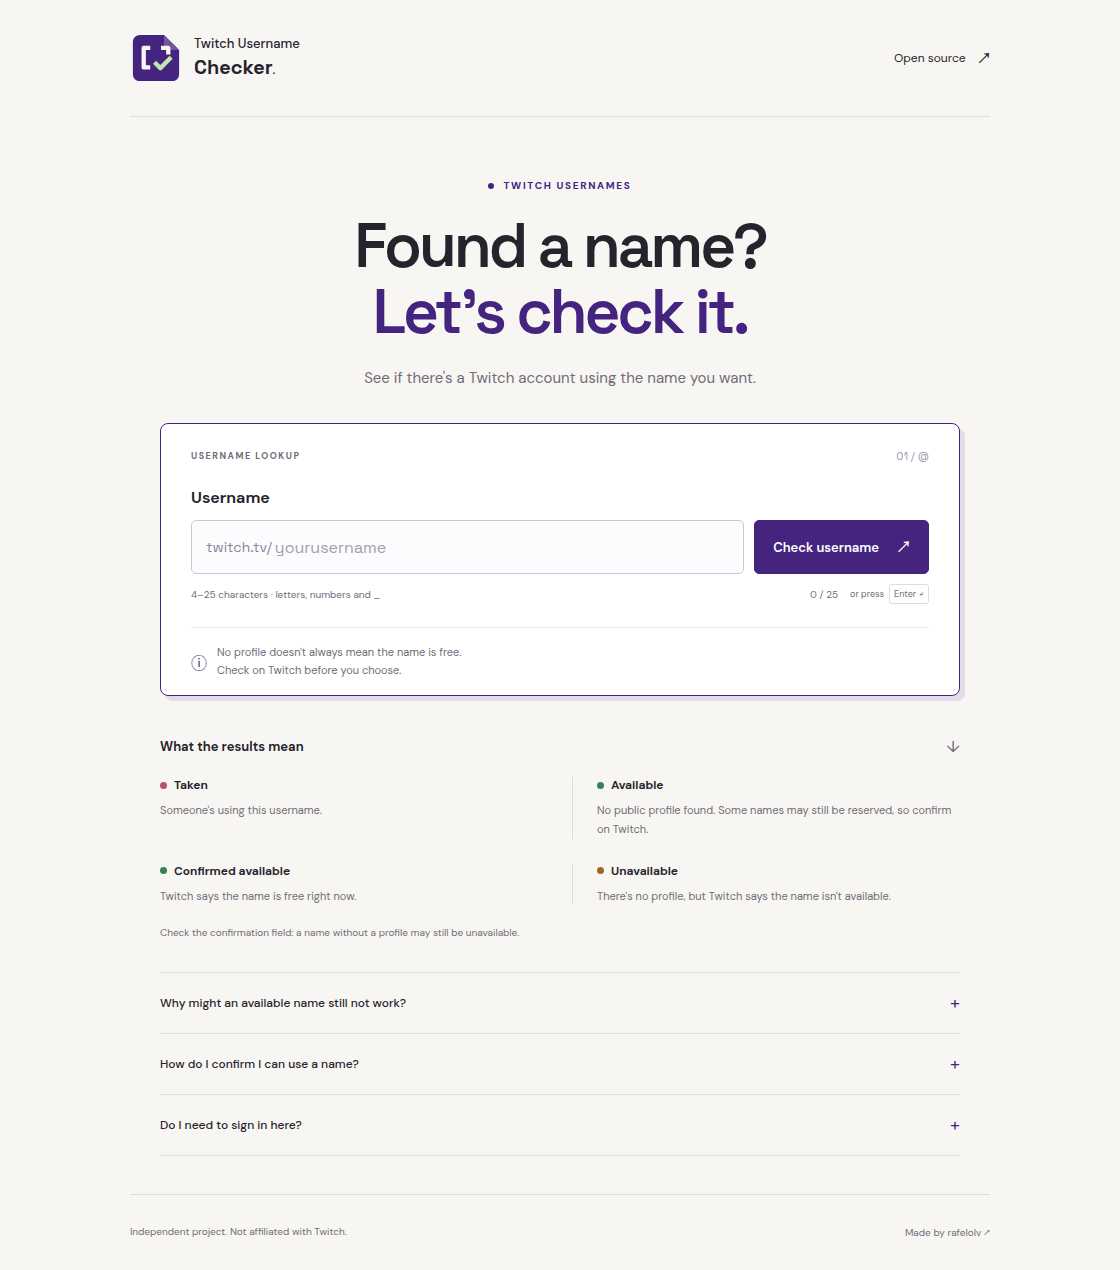
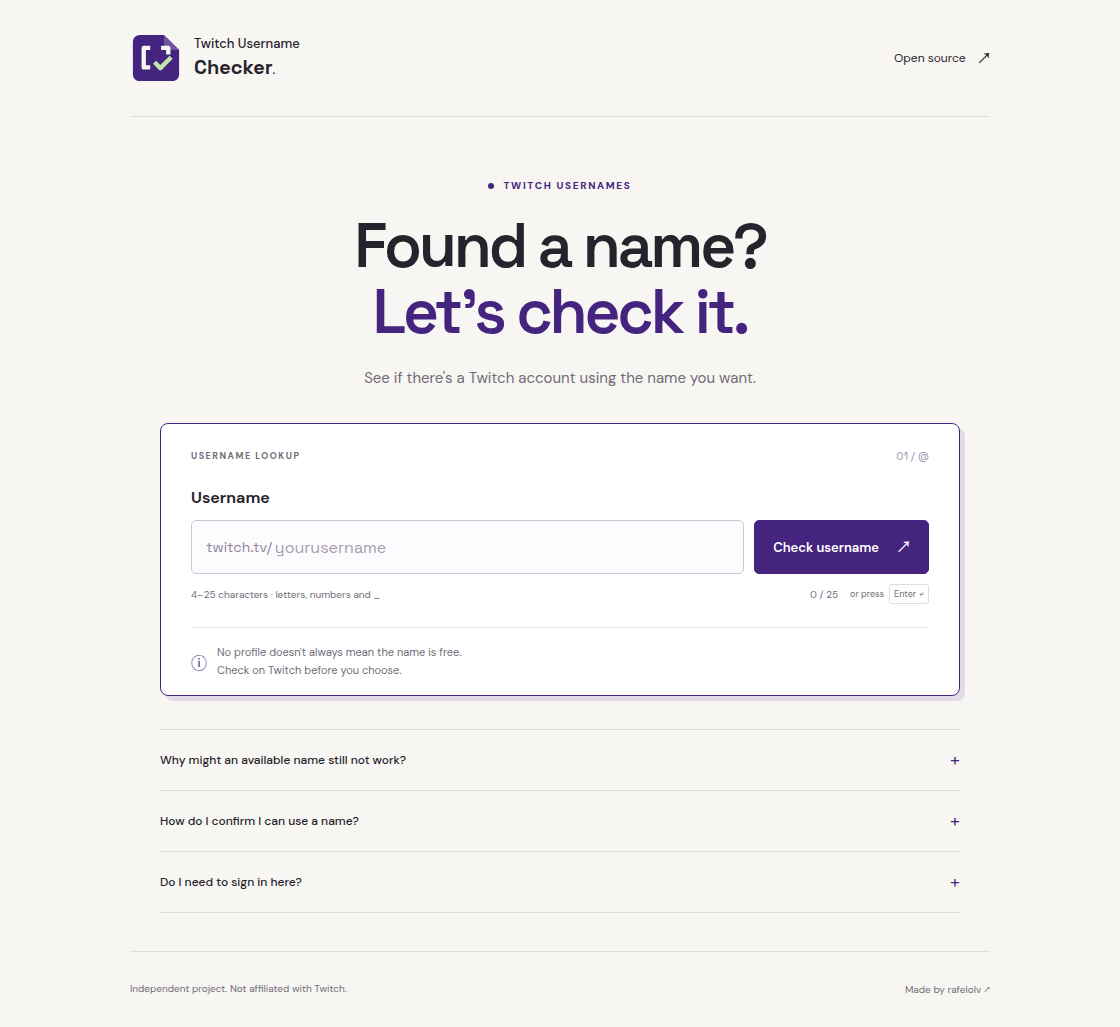
style: simplify results and remove status guide

diff --git a/styles.css b/styles.css
@@ -8,9 +8,7 @@
   --purple: #452480;
   --purple-light: #eee8f5;
   --line: #dedbe2;
-  --green: #348155;
   --red: #bb5264;
-  --amber: #9a6a24;
   font-family: "DM Sans", sans-serif;
   color: var(--ink);
   background: var(--paper);
@@ -311,31 +309,9 @@ kbd {
 }
 .result {
   margin-top: 22px;
-  padding: 20px;
-  background: #f4f0f8;
-  border-radius: 5px;
-  border-left: 3px solid var(--purple);
+  padding: 22px 0 0;
+  border-top: 1px solid var(--line);
   overflow-wrap: anywhere;
-}
-.result[data-state="taken"] {
-  background: #fcf0f2;
-  border-color: var(--red);
-}
-.result[data-state="available"],
-.result[data-state="unknown"] {
-  background: #edf6ed;
-  border-color: var(--green);
-}
-.result[data-state="unavailable"] {
-  background: #fbf3e7;
-  border-color: var(--amber);
-}
-.dot.unknown {
-  background: var(--green);
-}
-.result[data-state="available"] .result-heading,
-.result[data-state="unknown"] .result-heading {
-  color: var(--green);
 }
 .result-heading {
   display: flex;
@@ -343,8 +319,7 @@ kbd {
   gap: 8px;
   font-size: 11px;
   font-weight: 700;
-  text-transform: uppercase;
-  letter-spacing: 0.6px;
+  color: var(--ink);
 }
 .result h3 {
   font:
@@ -369,8 +344,8 @@ kbd {
 .result .result-caveat {
   margin-top: 12px;
   padding-top: 12px;
-  border-top: 1px solid #9a6a2440;
-  color: #79511b;
+  border-top: 1px solid var(--line);
+  color: var(--muted);
   font-size: 12px;
 }
 .result-facts:empty {
@@ -424,73 +399,6 @@ kbd {
   to {
     transform: rotate(360deg);
   }
-}
-.section-heading {
-  display: flex;
-  justify-content: space-between;
-  align-items: center;
-  gap: 15px;
-}
-.section-heading h2 {
-  font-size: 13px;
-  font-weight: 650;
-  margin: 0;
-}
-.explainer {
-  padding: 40px 30px 0;
-}
-.explainer > .section-heading {
-  padding-bottom: 20px;
-}
-.explainer > .section-heading > span {
-  color: var(--muted);
-}
-.status-guide {
-  display: grid;
-  grid-template-columns: repeat(2, minmax(0, 1fr));
-  gap: 24px;
-}
-.status-guide article:nth-child(even) {
-  border-left: 1px solid var(--line);
-  padding-left: 24px;
-}
-.status-name {
-  display: flex;
-  gap: 7px;
-  align-items: center;
-  font-size: 12px;
-  font-weight: 650;
-}
-.dot {
-  display: inline-block;
-  flex-shrink: 0;
-  width: 7px;
-  height: 7px;
-  border-radius: 50%;
-  background: var(--purple);
-}
-.dot.available {
-  background: var(--green);
-}
-.dot.taken {
-  background: var(--red);
-}
-.dot.unavailable {
-  background: var(--amber);
-}
-.status-guide p {
-  font-size: 11px;
-  color: var(--muted);
-  line-height: 1.7;
-  margin: 8px 0 0;
-}
-.unknown-note {
-  font-size: 10px;
-  color: var(--muted);
-  margin: 21px 0 0;
-}
-.unknown-note strong {
-  font-weight: 600;
 }
 .questions {
   margin: 33px 30px 0;
@@ -610,26 +518,6 @@ details a {
   .card-note p {
     font-size: 10px;
   }
-  .explainer {
-    padding: 33px 2px 0;
-  }
-  .status-guide {
-    gap: 12px;
-  }
-  .status-guide article:nth-child(even) {
-    padding-left: 12px;
-  }
-  .status-name {
-    font-size: 10px;
-    gap: 5px;
-  }
-  .status-guide p {
-    font-size: 10px;
-  }
-  .unknown-note {
-    font-size: 9px;
-    line-height: 1.6;
-  }
   .questions {
     margin: 27px 2px 0;
   }
@@ -645,9 +533,6 @@ details a {
     flex-direction: column;
     gap: 9px;
     font-size: 9px;
-  }
-  .result {
-    padding: 16px;
   }
   .result h3 {
     font-size: 22px;

diff --git a/index.html b/index.html
@@ -113,43 +113,6 @@
           </p>
         </div>
       </section>
-      <section class="explainer" aria-labelledby="explainer-title">
-        <div class="section-heading">
-          <h2 id="explainer-title">What the results mean</h2>
-          <span aria-hidden="true">↓</span>
-        </div>
-        <div class="status-guide">
-          <article>
-            <span class="status-name"><i class="dot taken"></i>Taken</span>
-            <p>Someone's using this username.</p>
-          </article>
-          <article>
-            <span class="status-name"
-              ><i class="dot unknown"></i>Available</span
-            >
-            <p>
-              No public profile found. Some names may still be reserved, so
-              confirm on Twitch.
-            </p>
-          </article>
-          <article>
-            <span class="status-name"
-              ><i class="dot available"></i>Confirmed available</span
-            >
-            <p>Twitch says the name is free right now.</p>
-          </article>
-          <article>
-            <span class="status-name"
-              ><i class="dot unavailable"></i>Unavailable</span
-            >
-            <p>There's no profile, but Twitch says the name isn't available.</p>
-          </article>
-        </div>
-        <p class="unknown-note">
-          Check the confirmation field: a name without a profile may still be
-          unavailable.
-        </p>
-      </section>
       <section class="questions" aria-label="Frequently asked questions">
         <details>
           <summary>

diff --git a/app.js b/app.js
@@ -20,11 +20,11 @@ const states = {
     url: "https://www.twitch.tv/settings/profile",
   },
   taken: {
-    label: "Taken",
+    label: "Unavailable",
     title: "Someone's already using this name.",
     description: "Take a look at the profile, or try a different username.",
     profile: "Found",
-    availability: "Taken",
+    availability: "In use",
     action: "View Twitch profile ↗",
   },
   unavailable: {
@@ -87,9 +87,7 @@ function renderResult(item) {
   result.hidden = false;
   result.dataset.state = item.state;
   const heading = element("div", "result-heading");
-  const dot = element("i", `dot ${item.state}`);
-  dot.setAttribute("aria-hidden", "true");
-  heading.append(dot, document.createTextNode(content.label));
+  heading.textContent = content.label;
   const title = element("h3", "", `@${item.username}`);
   const description = element("p");
   description.append(

diff --git a/README.md b/README.md
@@ -13,6 +13,9 @@ application backend or login.
 
 ![Twitch Username Checker interface](docs/images/preview.png)
 
+Results use two labels, **Available** and **Unavailable**, with no colored status
+panels or dots. Request errors remain separate.
+
 The custom nameplate mark combines a folded corner, username brackets and a mint
 check. One vector is used across the site, favicon and this README. See
 [branding](docs/BRANDING.md) for the source and palette.
@@ -27,14 +30,14 @@ numbers or underscores. Searches are not saved.
 
 | Result                              | Meaning                                                          |
 | ----------------------------------- | ---------------------------------------------------------------- |
-| Taken                               | Twitch returned an existing account.                             |
+| Unavailable · In use                | Twitch returned an existing account.                             |
 | Available · Not confirmed by Twitch | No public profile found; the name may still be reserved or held. |
 | Available · Confirmed by Twitch     | Twitch explicitly confirmed availability.                        |
 | Unavailable                         | Twitch explicitly rejected availability.                         |
 | Failed / rate-limited               | The lookup failed or Twitch limited requests.                    |
 
 **“Available” based on an absent profile is a best-effort label, not a guarantee.**
-It appears in green with **“Not confirmed by Twitch”** and a visible warning.
+It appears as a plain result with **“Not confirmed by Twitch”** and a visible warning.
 Some names cannot be used after a rename, suspension or deactivation even when
 no profile is visible. Twitch does not provide a precise public claimability
 check. Confirm the name on Twitch before choosing it.

diff --git a/docs/AVAILABILITY.md b/docs/AVAILABILITY.md
@@ -36,18 +36,19 @@ At the maintainer's request, successful absent-profile lookups use **Available**
 as the main display label even when claimability cannot be confirmed. This is a
 presentation decision, not a new detection method.
 
-- Green **Available**, **Confirmed by Twitch**: explicit successful availability
+- **Available**, **Confirmed by Twitch**: explicit successful availability
   `true`, with no account.
 - **Unavailable**: explicit successful availability `false`, with no account.
-- Green **Available**, **Not confirmed by Twitch**: absent public profile with
+- **Available**, **Not confirmed by Twitch**: absent public profile with
   blocked/unconfirmed availability. Always show the visible reservation/accuracy
   warning. Internally this remains `unknown`.
-- **Taken**, **Lookup failed** and **Too many requests** keep their existing meaning.
+- Existing accounts display **Unavailable**, with **In use**.
+- **Lookup failed** and **Too many requests** remain distinct request errors.
 
 Both reported examples can show the same unconfirmed Available label. Some names
 may still be reserved or held after a rename, suspension or deactivation. This
 fallback is not a guarantee, confidence score or probability estimate. Final
 confirmation happens while signed in at [Twitch Settings → Profile](https://www.twitch.tv/settings/profile).
-Both Available labels use green; only the explicit confirmation field establishes
+Both outcomes use neutral text styling; only the explicit confirmation field establishes
 that Twitch returned a positive availability response. A future detection method must demonstrate valid,
 different responses for held and claimable names before it can claim to distinguish them.

diff --git a/docs/ARCHITECTURE.md b/docs/ARCHITECTURE.md
@@ -36,11 +36,13 @@ not the official Helix API. No login, token or client secret is used.
 | `rate-limited` | HTTP 429; no automatic retry.                                            |
 
 The internal `unknown` state uses the user-requested **Available** display label,
-in green, with **Profile: Not found**, **Availability: Not confirmed by Twitch**
+in a neutral text layout, with **Profile: Not found**, **Availability: Not confirmed by Twitch**
 and an always-visible warning about reserved/held names and imprecise lookup.
 This is a best-effort presentation fallback, not evidence of claimability.
-Both display labels use green; only a true response shows **Confirmed by Twitch**.
-Color does not imply confirmation. Confirmation links go to Twitch Settings → Profile
+The two visible availability outcomes are **Available** and **Unavailable**;
+existing accounts also use Unavailable with an In use fact. Errors stay separate.
+Only a true response shows **Confirmed by Twitch**. No status colors, dots or
+side stripes are used. The result guide has been removed. Confirmation links go to Twitch Settings → Profile
 and require signing in to Twitch. Errors never
 enter this fallback.
 See [the availability investigation](AVAILABILITY.md) for tested approaches.

diff --git a/AGENTS.md b/AGENTS.md
@@ -29,10 +29,13 @@ Maintained by rafelolv. Read [maintenance](docs/MAINTENANCE.md) and
   boolean with a confirmed absent user permits `available` or `unavailable`.
   Missing profiles, HTTP errors, timeouts and integrity challenges never prove
   availability. Preserve `unknown`, `error` and `rate-limited` states. An absent
-  profile with blocked availability displays “Available” in green, accompanied by
+  profile with blocked availability displays plain “Available”, accompanied by
   “Not confirmed by Twitch” and an always-visible reservation/accuracy warning.
   This is a user-requested presentation fallback; keep its internal `unknown`
-  state and never describe it as confirmed. Color is not evidence of confirmation.
+  state and never describe it as confirmed. Keep results neutral: no colored
+  panels, status dots or decorative side stripes. Use only Available/Unavailable
+  for availability outcomes; request errors remain distinct. Do not restore the
+  “What the results mean” section.
   Errors must not become available. Link confirmation to Twitch Settings → Profile
   and explain that the visitor needs to sign in there.
 - Twitch GraphQL is internal and unsupported. Do not bypass integrity checks,

diff --git a/docs/VALIDATION.md b/docs/VALIDATION.md
@@ -198,3 +198,15 @@ Limitations:
 - Syntax/unit checks passed. One local Chrome smoke check verified the computed
   green label color, settings URL, sign-in text, visible warning and 320px layout
   without JS errors. README preview refreshed. No new live API test was needed.
+
+## 1.0.8 neutral results — 2026-10-17
+
+- Removed tinted result backgrounds, side stripes and status dots, plus the
+  “What the results mean” section and its unused styles. Availability outcomes
+  now use only Available/Unavailable; existing profiles display Unavailable with
+  an In use fact. Request errors remain distinct and unconfirmed warnings remain.
+- Syntax/unit checks passed. A targeted local Chrome check covered both outcome
+  labels, explicit unavailable and failed responses, visible fallback warning,
+  transparent result background, no stripe/dot and a 320px viewport without JS
+  errors. Visually inspected the neutral result; refreshed the README preview.
+- Integration/classification is unchanged; no new live API check was needed.

diff --git a/docs/MAINTENANCE.md b/docs/MAINTENANCE.md
@@ -20,7 +20,7 @@ Use the same check locally and in CI. Edit root HTML/CSS/JS and `assets/` direct
 
 For API changes, reproduce the response and add targeted classification tests.
 Never infer availability from an absent profile or integrity error. For UI
-changes, check keyboard submit, validation, loading, results, history, copying,
+changes, check keyboard submit, validation, loading, results, copying,
 clearing and narrow layouts in a disposable browser profile. Simulate responses
 for deterministic states and make limited live queries separately. Record actual
 checks, browsers and untested cases in [validation](VALIDATION.md).

diff --git a/CHANGELOG.md b/CHANGELOG.md
@@ -3,6 +3,11 @@
 Versions follow three-part semver; `package.json` is the version source.
 Entries remain Unreleased until publication is verified.
 
+## 1.0.8
+
+- Remove colored result panels, dots and side stripes.
+- Remove the result guide and use Available/Unavailable as the two outcome labels.
+
 ## 1.0.7
 
 - Show Available results in green while preserving the unconfirmed warning.
